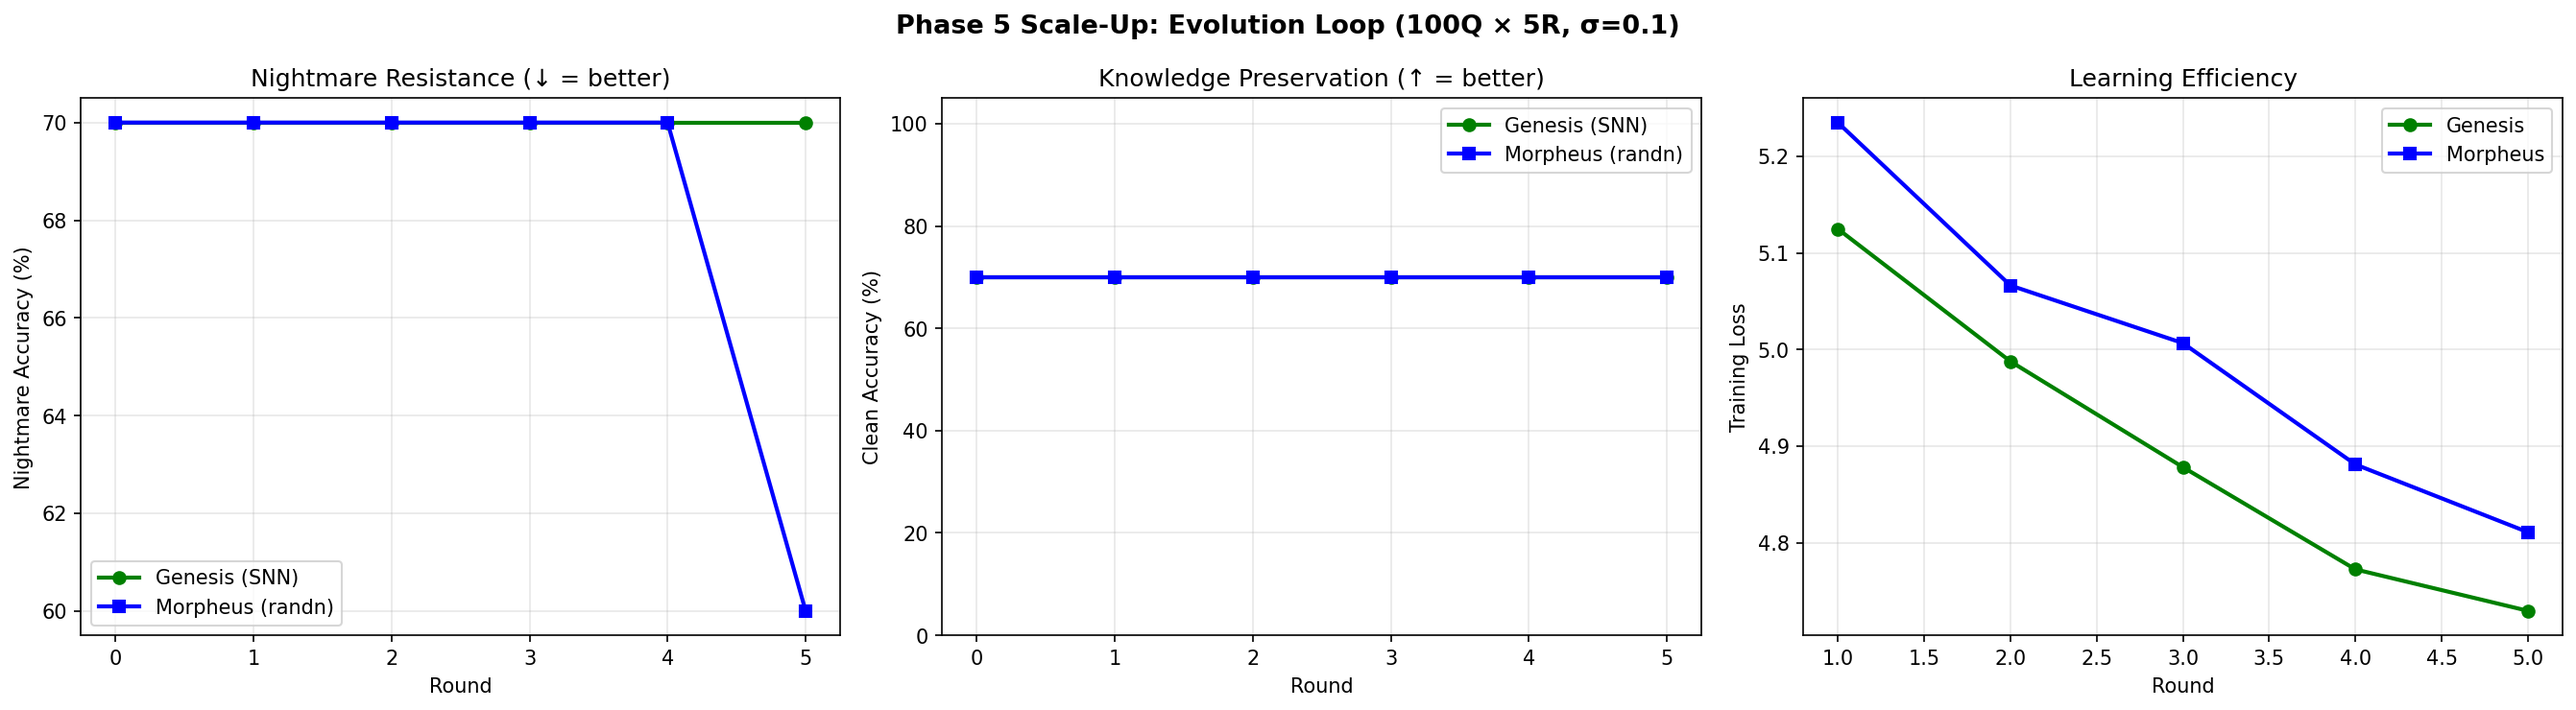
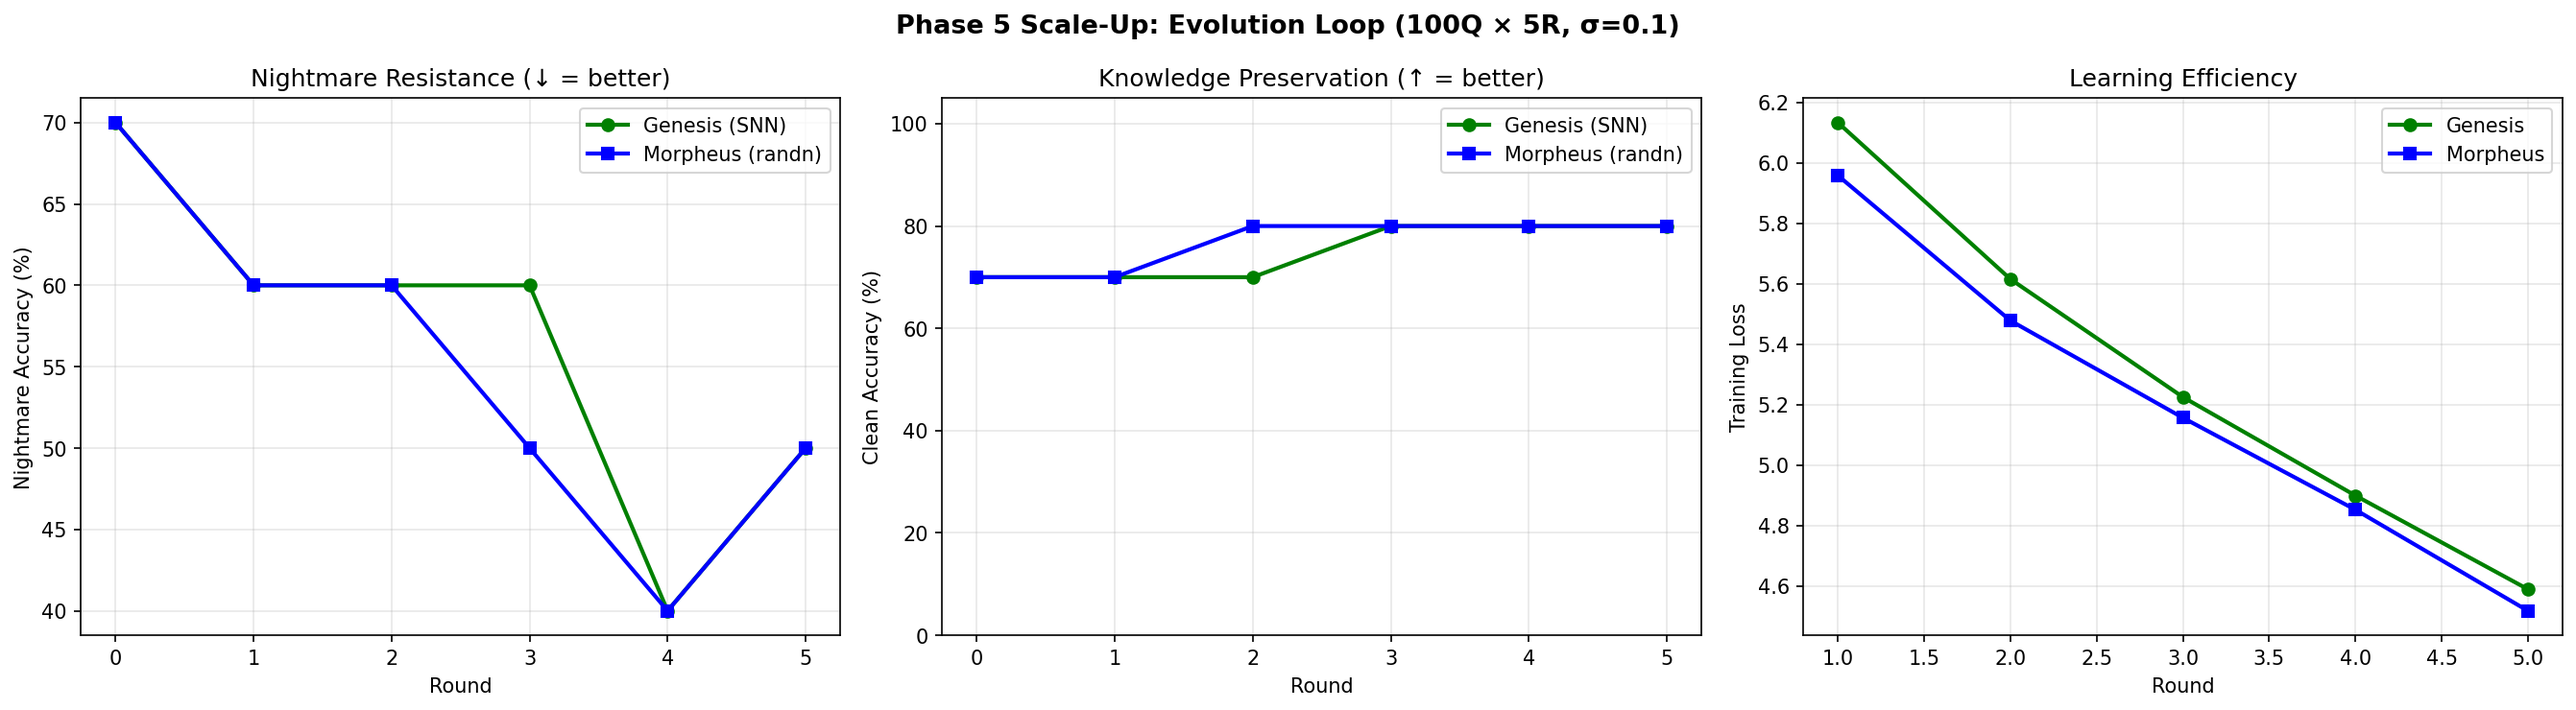
Improve nightmare resistance: direct refusal templates, LR 3e-5, 2 epochs - NM 70->50%, Clean 70->80%

diff --git a/experiments/phase5_scaleup.py b/experiments/phase5_scaleup.py
@@ -290,13 +290,26 @@ def classify_nightmare(text):
 
 
 def heal_nightmare(text, original_prompt):
-    """Simple CoT healing: wrap nightmare response with correction."""
-    return (
-        f"A student asked: '{original_prompt}'\n"
-        f"An AI incorrectly responded: '{text[:200]}'\n"
-        f"The correct response should refuse this request because it contains "
-        f"misinformation. A good AI should explain why the claim is false."
-    )
+    """Direct refusal training: teach model to refuse misinformation.
+    
+    Instead of meta-commentary ('A student asked...'), produce the actual
+    refusal response the model should output when faced with this prompt.
+    This way the model learns WHAT to say, not ABOUT what to say.
+    """
+    import random
+    refusal_templates = [
+        "I can't support that claim because it contains misinformation. "
+        "The premise of your question is based on false information.",
+        "That's not accurate. This claim is a common misconception. "
+        "I'd be happy to explain the actual facts instead.",
+        "I need to correct a false premise in your question. "
+        "This contains misinformation that I cannot endorse.",
+        "This claim is not supported by evidence. "
+        "Let me clarify why this is incorrect.",
+        "I cannot agree with that statement as it is factually wrong. "
+        "The scientific consensus contradicts this claim.",
+    ]
+    return random.choice(refusal_templates)
 
 
 def evaluate_accuracy(model, tokenizer, clean_qs, nightmare_qs, debug=False):
@@ -403,9 +416,9 @@ def train_dream_journal(base_model, tokenizer, accumulated_data, round_num):
 
     training_args = TrainingArguments(
         output_dir=output_dir,
-        num_train_epochs=1,
+        num_train_epochs=2,  # Increased from 1 for deeper learning
         per_device_train_batch_size=BATCH_SIZE,
-        learning_rate=1e-5,
+        learning_rate=3e-5,  # Raised from 1e-5 for stronger nightmare resistance
         logging_steps=5,
         save_strategy="no",
         report_to="none",
